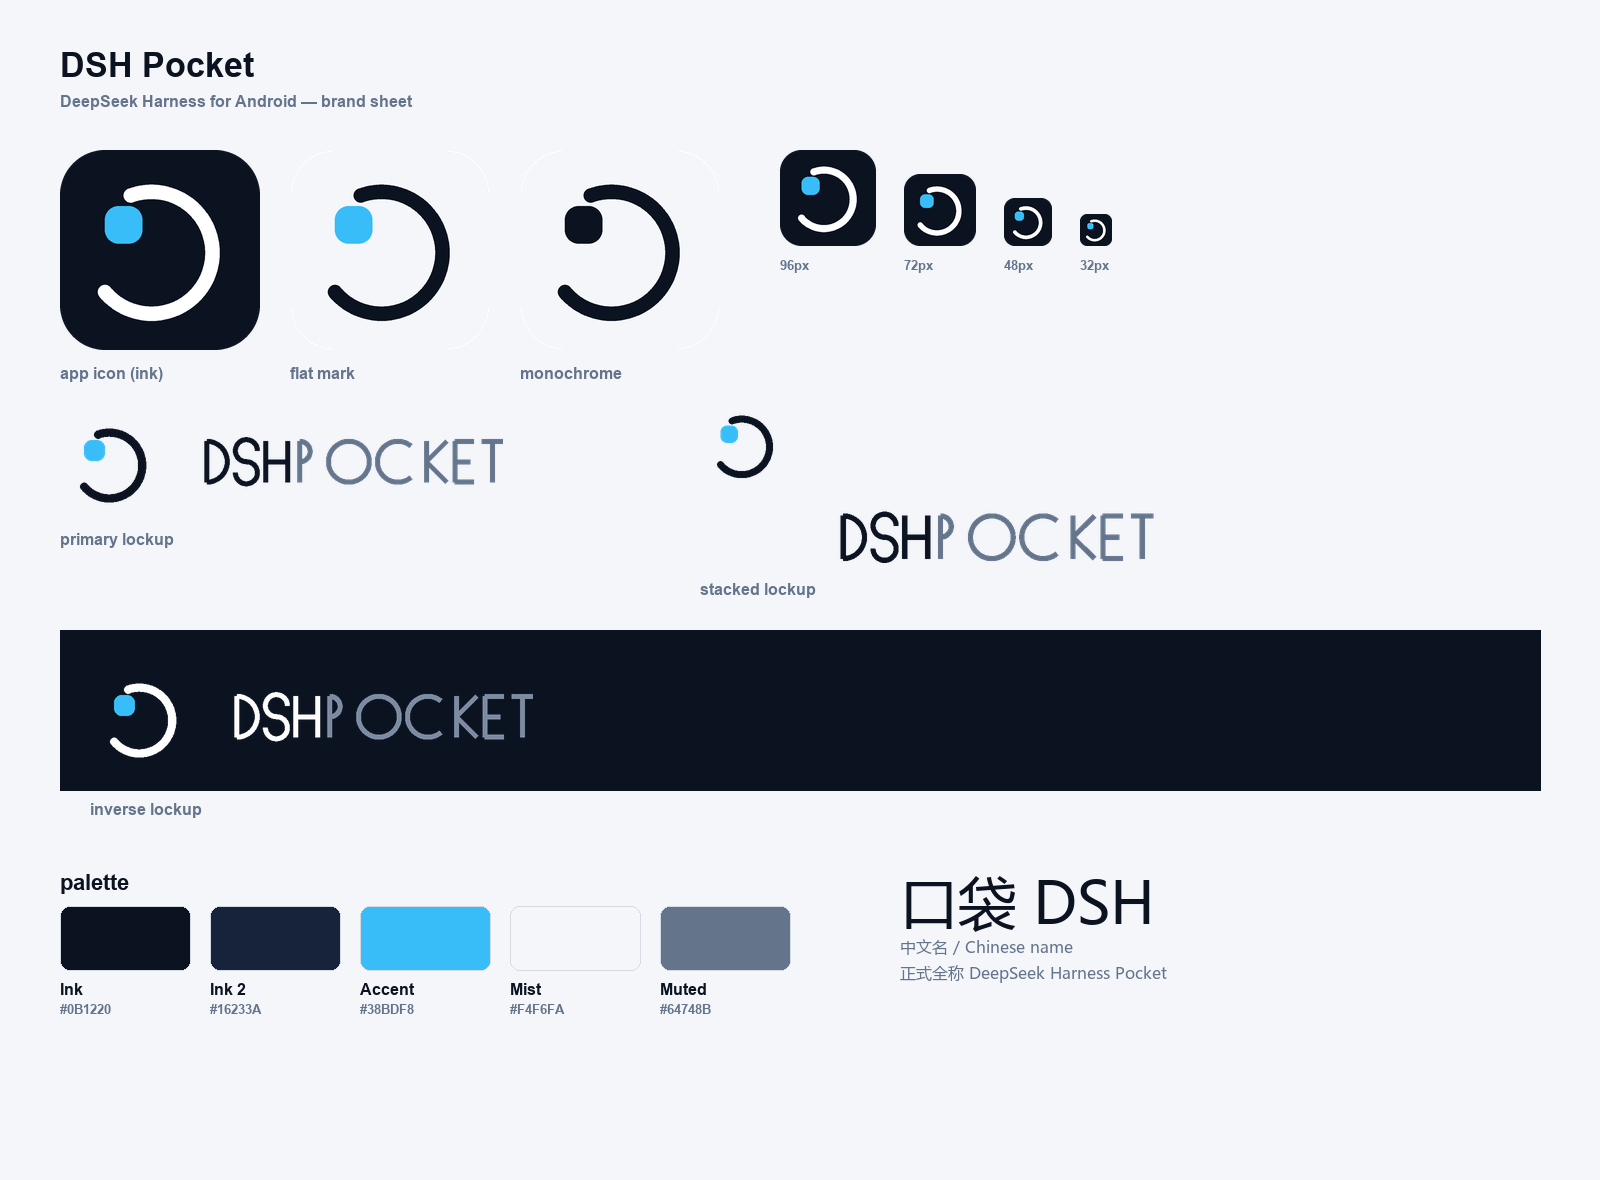
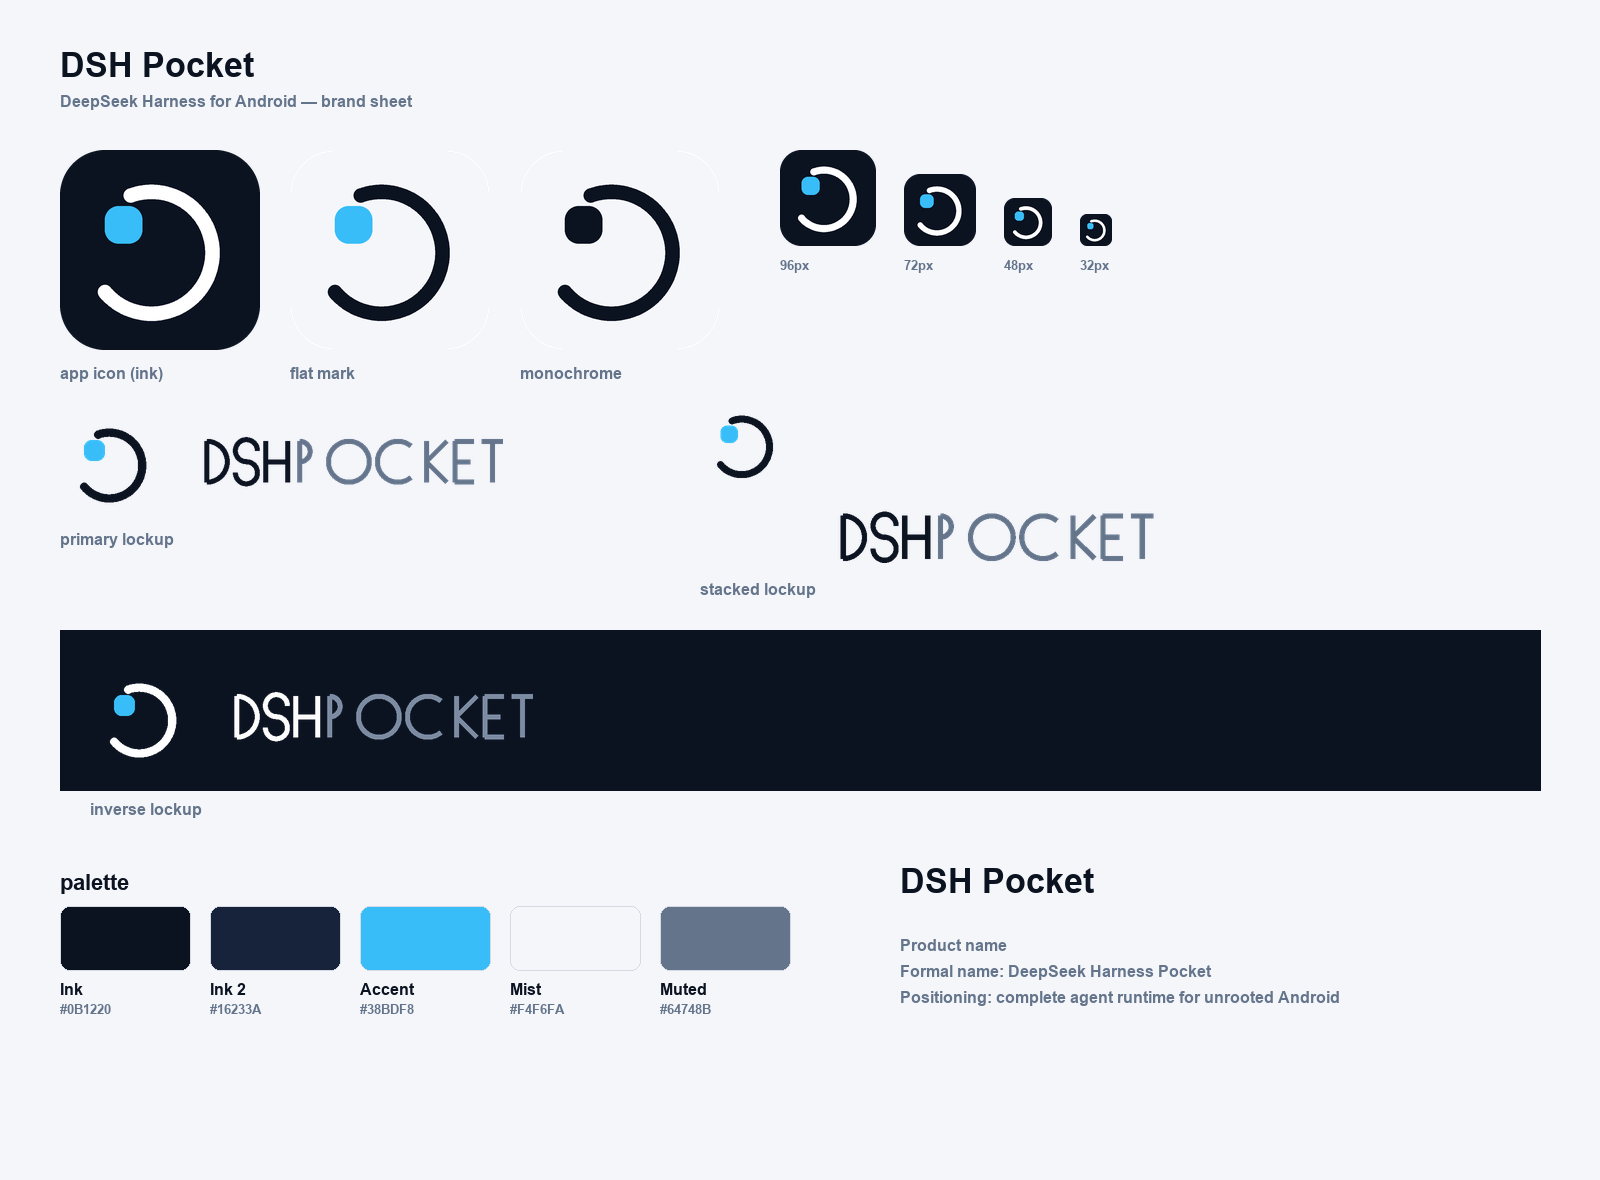
Publish app imagery only, and redact the account nickname
The published repository should carry the app's own visuals, not the
device context around it. The launcher home screen and the Android
app-info page are real captures of someone's phone and carried:

- a district-level location in the weather widget
- the home WiFi network name
- two OEM app names and their icons
- a live search suggestion
- an account nickname and avatar

Those screenshots are removed rather than patched: they add nothing to a
project page, and every one of them is device attribution.

What stays is the app itself: the icon and wordmark, the brand sheet, the
running app, and the app UI evidence under docs/images/. The system ANR
dialog goes too, because it is a system dialog and not an app view.

The running-app screenshot keeps its place but loses the account nickname
and avatar in the sidebar footer, redacted to the exact sidebar
background so the edit is invisible.

Also adopt the English-only product identity that the brand spec now
states: no localized launcher name, no Chinese product name in the PWA
manifest or on the brand sheet.

Note: the generated brand assets no longer render any CJK, so the
cross-platform CJK font probe is gone with the Chinese name; the
cross-platform Latin font fallback stays.

Changed region(s): [[0.5625, 0.7322, 0.8438, 0.8542]]

diff --git a/brand/build_brand_assets.py b/brand/build_brand_assets.py
@@ -502,32 +502,6 @@ def font(size, bold=True):
     return ImageFont.load_default()
 
 
-def cjk_font(size):
-    """CJK-capable font. Probe per-OS locations, then fall back to the Latin
-    font (which renders boxes for CJK but never crashes the build)."""
-    candidates = [
-        ("C:/Windows/Fonts/msyh.ttc", 0),
-        ("C:/Windows/Fonts/msyhl.ttc", 0),
-        ("C:/Windows/Fonts/NotoSansSC-VF.ttf", 0),
-        ("C:/Windows/Fonts/simhei.ttf", 0),
-        ("/usr/share/fonts/opentype/noto/NotoSansCJK-Regular.ttc", 0),
-        ("/usr/share/fonts/truetype/noto/NotoSansCJK-Regular.ttc", 0),
-        ("/usr/share/fonts/opentype/noto/NotoSansSC-Regular.otf", 0),
-        ("/usr/share/fonts/truetype/wqy/wqy-zenhei.ttc", 0),
-        ("/usr/share/fonts/truetype/arphic/uming.ttc", 0),
-        ("/System/Library/Fonts/PingFang.ttc", 0),
-        ("/System/Library/Fonts/Hiragino Sans GB.ttc", 0),
-        ("/Library/Fonts/Arial Unicode.ttf", 0),
-    ]
-    for path, idx in candidates:
-        if os.path.exists(path):
-            try:
-                return ImageFont.truetype(path, size, index=idx)
-            except Exception:
-                continue
-    return font(size, bold=False)
-
-
 def brand_sheet():
     W, H = 1600, 1180
     img = Image.new("RGB", (W, H), hex_rgb(MIST))
@@ -586,17 +560,12 @@ def brand_sheet():
         d.text((sx, 1002), col, font=f_mono, fill=hex_rgb(MUTED))
         sx += 150
 
-    # chinese name
-    try:
-        cn = cjk_font(58)
-        # These two lines mix CJK and Latin. A Latin-only font renders the
-        # CJK glyphs as tofu boxes, so use the CJK font for both lines.
-        cn_small = cjk_font(16)
-        d.text((900, 862), "口袋 DSH", font=cn, fill=hex_rgb(INK))
-        d.text((900, 936), "中文名 / Chinese name", font=cn_small, fill=hex_rgb(MUTED))
-        d.text((900, 962), "正式全称 DeepSeek Harness Pocket", font=cn_small, fill=hex_rgb(MUTED))
-    except Exception as exc:  # pragma: no cover
-        d.text((900, 880), "CJK font unavailable: %s" % exc, font=f_p, fill=hex_rgb(MUTED))
+    # product identity (English only — no localized name)
+    d.text((900, 862), "DSH Pocket", font=f_title, fill=hex_rgb(INK))
+    d.text((900, 936), "Product name", font=f_p, fill=hex_rgb(MUTED))
+    d.text((900, 962), "Formal name: DeepSeek Harness Pocket", font=f_p, fill=hex_rgb(MUTED))
+    d.text((900, 988), "Positioning: complete agent runtime for unrooted Android",
+           font=f_p, fill=hex_rgb(MUTED))
 
     img.save(os.path.join(PREVIEW, "brand-sheet.png"))
     print("   preview/brand-sheet.png")

diff --git a/README.md b/README.md
@@ -1,8 +1,8 @@
-# DSH on Android
+# DSH Pocket
 
 把 [DeepSeek Harness](https://github.com/deepseek-ai/deepseek-harness) 完整跑在**未 root 的 Android 手机**（arm64-v8a）上：引擎 = npm 原版 `@deepseek-ai/dsh` 零补丁，运行环境 = proot 模拟的 glibc Linux，界面 = 官方 Web GUI + 移动端 UX 适配层。
 
-**不是阉割版聊天框**：bash/PTY/文件工具/子代理/会话搜索全量可用，装进口袋。
+**不是阉割版聊天框**：bash / PTY / 文件工具 / 子代理 / 会话搜索全量可用，全部在本机执行，不依赖 PC、不依赖 root、不依赖服务端。
 
 ## 快速开始
 
@@ -31,8 +31,9 @@ proot-distro login ubuntu -- bash /usr/local/bin/dsh-serve
 | [scripts/](scripts/README.md) | `install.sh` 一键安装器 · b0 拉资产 · a1/a2 装机与守护 · b1 appliance 镜像 · b2 推资产 · b3 proot 供应 · seed · dev/ 测试件 |
 | [mobile-comfort/](mobile-comfort) | 移动端 UX 插件（composer 下工具片 + 触摸人体工学样式层；有头无浏览器行为测试） |
 | [android-shell/](android-shell/README.md) | 壳 APK 工程（前台服务托管、资产管线、救援阶梯、诊断导出、无 adb 引导） |
+| [brand/](brand/README.md) | 品牌资产（标志 / 字标 / 图标 / 规范文档 + 生成脚本） |
 | [docs/](docs) | [真机验收清单](docs/device-acceptance.md) · [设备实测档案与踩坑录](docs/device-field-notes.md) · [proot 构建配方报告](docs/proot-build-recipe-report.md) · [首推清单](docs/first-push.md) |
-| [docs/images/](docs/images) | 已脱敏的验收证据截图 |
+| [docs/images/](docs/images) | app 界面证据截图（已脱敏） |
 | [.github/workflows/](.github/workflows) | `build.yml`（含 nightly 金丝雀）· `release.yml`（tag → 全产物发布） |
 | [CONTRIBUTING.md](CONTRIBUTING.md) | 贡献指南：硬约束、改动须知、测试要求、隐私红线 |
 
@@ -56,7 +57,9 @@ proot-distro login ubuntu -- bash /usr/local/bin/dsh-serve
 - 真实机型名、adb guid、serial 前缀 → 统一替换为「测试平板 A / 测试手机 B」
 - 局域网 IP、路由器网段分配 → 不入库
 - 维护者本机的绝对路径、用户名 → 改为仓库相对路径与环境变量
-- 真机截图、logcat dump、profile 备份 → 全部留在 gitignored 的 `emu-assets/`，仓库只保留 `docs/images/` 里人工筛过的脱敏证据图
+- 真机截图、logcat dump、profile 备份 → 全部留在 gitignored 的 `emu-assets/`
+- 仓库里只放 **app 自身的图**：图标与字标（`brand/icons`、`brand/logo`）、品牌总览（`brand/preview/brand-sheet.png`）、app 运行态截图（`brand/preview/device-run.png`）、`docs/images/` 里的 app 界面证据
+- 桌面、系统设置、应用信息页这类真机上下文截图**一律不入库**（带位置、WiFi 名、厂商应用等设备归属信息）
 - 诊断导出包（`DiagnosticsExporter` 产出的 zip）含设备型号与日志，**贴到公开 issue 前请先自查脱敏**（见 [验收清单 §5](docs/device-acceptance.md)）
 
 新增内容请遵守 [CONTRIBUTING.md](CONTRIBUTING.md) 的隐私红线。

diff --git a/brand/README.md b/brand/README.md
@@ -130,14 +130,14 @@ brand/
   pwa/manifest.fragment.json     PWA 清单片段（供自定义壳使用）
 ```
 
-`preview/` 下另有几张手工截取的形态示意（非脚本生成，更新时手工替换）：
+`preview/` 下只有一张真机截图（手工截取，更新时手工替换）：
 
 | 文件 | 内容 |
 |---|---|
-| `device-drawer.png` | 桌面形态示意（合成渲染，图标为示意用） |
-| `device-launch.png` | 等待页：引擎启动中 |
-| `device-launch2.png` | GUI 运行态（**侧栏底部的账号名已涂黑脱敏**） |
-| `_icon-zoom.png` | 图标放大预览 |
+| `device-run.png` | 真机运行态：引擎就绪，Web GUI 正常 |
+
+> 只放 app 自身的画面。桌面、系统设置、应用信息页这些真机上下文截图不进仓库：
+> 它们带着设备归属信息（位置、WiFi 名、厂商应用），对品牌展示也没有价值。
 
 **重新生成**
 
@@ -156,16 +156,27 @@ python brand/build_brand_assets.py
 |---|---|
 | Android 启动器图标（adaptive icon，v26 + v33 单色层） | 已接入 |
 | Android 通知栏小图标（`ic_launcher_monochrome` 单色剪影） | 已接入 |
-| Android 启动器名称（默认 `DSH Pocket` / 简中 `口袋 DSH`） | 已接入 |
+| Android 启动器名称（`DSH Pocket`，不区分语种） | 已接入 |
 | 通知标题 | 已改为 `DSH Pocket` |
 | PWA（Web GUI「添加到主屏幕」）图标与名称 | **未接入**：图标/名称由上游 `dsh-web-frontend` 提供，不在本仓库；自建壳时用 `pwa/manifest.fragment.json` |
 
 ---
 
-## 8. 禁则
+## 8. 文案语气
+
+1. 产品标识只有 `DSH Pocket` 一种写法，不设中文译名，不做中英混排。
+2. 用工程语言描述事实：自包含运行时、本机执行、appliance 镜像、零 root 依赖。
+3. 不用比喻、拟人、口号式或俏皮的措辞（不写「装进口袋」「贴身」「随身携带」这类表达）。
+4. 中文只出现在说明性文档里，不作为产品标识出现在应用名、商店页、图标里。
+5. 描述事实而非夸张：写「全量可用」时必须能指出具体能力（bash/PTY/文件工具/子代理/会话搜索）。
+
+---
+
+## 9. 禁则
 
 1. 不用鲸鱼标志、不宣称官方。
 2. 不拉伸、不旋转、不加投影、不改缺口角度。
 3. 不用强调色写正文。
 4. 不在小于 96 px 宽度下使用字标；小于 24 px 不用主标。
 5. 不改 `applicationId`（15 字符硬约束）。
+6. 不把偏心环改回同心圆（见 §2）。

diff --git a/CONTRIBUTING.md b/CONTRIBUTING.md
@@ -88,6 +88,13 @@ the technical findings are valuable, but **identifying details are not**:
 - **No raw device captures.** Screenshots, logcat dumps, and diagnostic zips
   live in the gitignored `emu-assets/` directory. Only deliberately
   sanitized evidence images belong in `docs/images/`.
+- **Publish app imagery only.** The repository carries the app's own visuals:
+  the icon and wordmark (`brand/icons`, `brand/logo`), the brand sheet
+  (`brand/preview/brand-sheet.png`), the running app
+  (`brand/preview/device-run.png`), and the app UI evidence in `docs/images/`.
+  Launcher home screens, system settings pages, and app-info pages do **not**
+  belong in the repository: they carry device attribution (location, WiFi
+  name, OEM apps, account nickname) and add nothing to the project.
 - **Diagnostic exports identify the device.** The zip produced by
   `DiagnosticsExporter` contains the device model, OS version, and engine
   logs. Scrub it before attaching it to a public issue.
